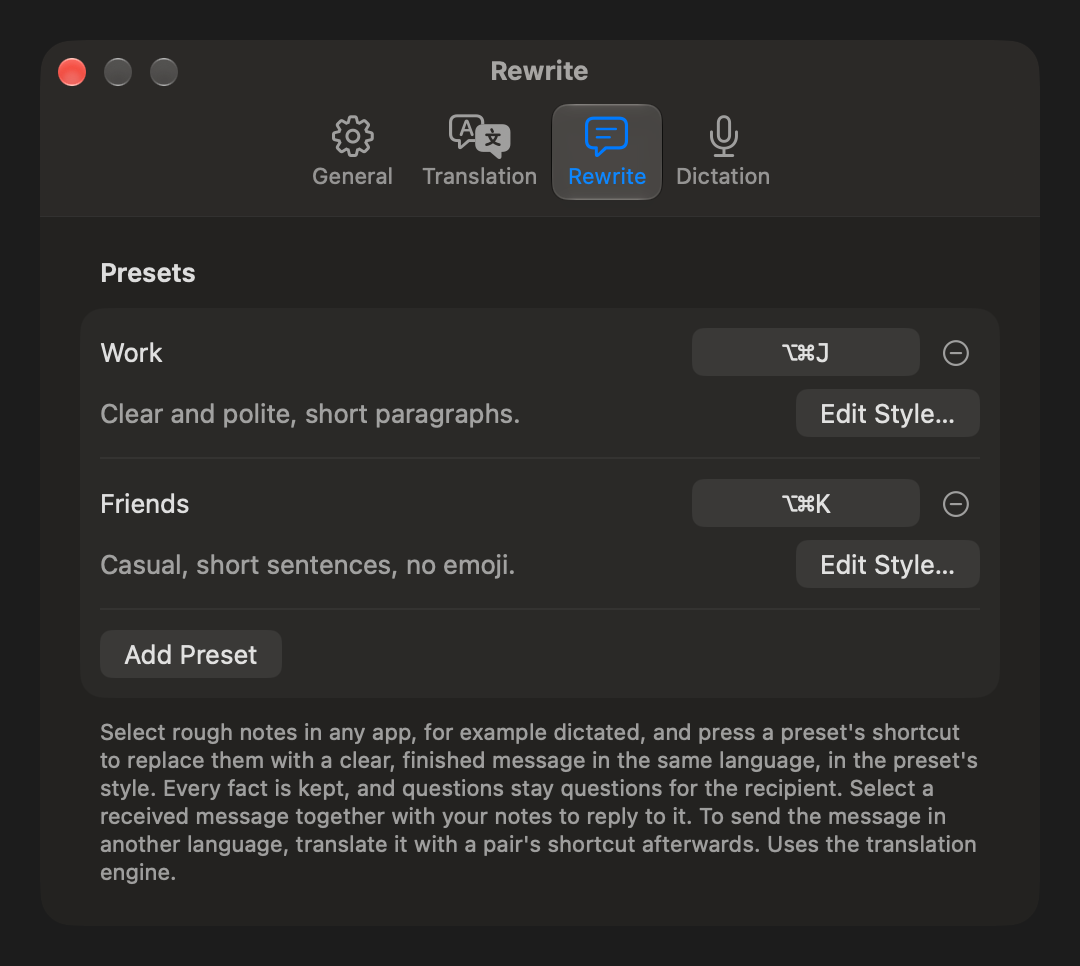
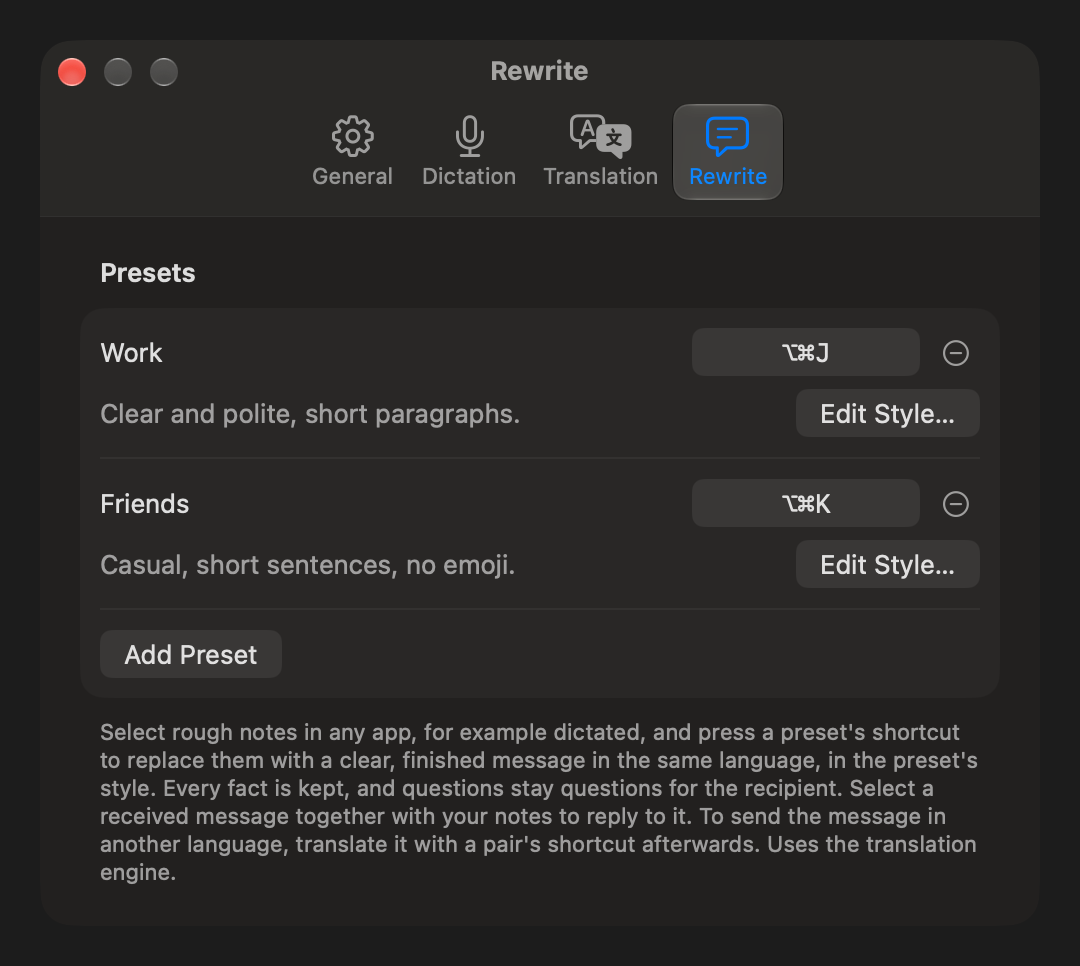
Prepare 3.7.12 screenshots, stabilize captures and update website copy

Changed region(s): [[0.3972, 0.0932, 0.7333, 0.2174]]

diff --git a/docs/build-and-release.md b/docs/build-and-release.md
@@ -77,8 +77,11 @@ checkout's caches intact.
   `CAPTURE_APPEARANCE=current` to leave the system theme and pointer untouched;
   the capture fails if the theme changes while a frame is being recorded.
   `CAPTURE_ACTIVITY_ONLY=1 CAPTURE_OUT=<dir> ./capture-screenshots.sh` captures
-  all four activity states and presses each Cancel button to verify dismissal.
+  all four activity states, waits for each panel frame to settle, and presses
+  each Cancel button to verify dismissal.
   Add `CAPTURE_LANGUAGE=de` to check the German labels.
+  Release 3.7.12 captures use `CAPTURE_LOCAL_MODEL=gemma-4-12b` to show the
+  newly available model in Translation and Manage Models.
   `CAPTURE_RESULTS_ONLY=1 CAPTURE_OUT=<dir> ./capture-screenshots.sh` checks
   the recovery submenu's empty, partial and full states.
 - **CRITICAL:** `swift build` alone updates only the SwiftPM build directory; it
@@ -191,7 +194,12 @@ gh release download vX.Y.Z -p "*.zip" -D /tmp/asset-check && \
 ## Website
 
 The product page is <https://wiltodelta.com/projects/translate-like-me/> on
-Victor's personal website. Since 2026-10-23 `translatelikeme.com` only
+Victor's personal website. `website-content.json` supplies its introduction and
+feature sections from the published release tag, alongside the General settings
+screenshots. Refresh the website with `pnpm run build:products` in
+`wiltodelta-app` after publication; a live deployment needs separate approval.
+
+Since 2026-10-23 `translatelikeme.com` only
 redirects there: a Cloudflare Redirect Rule ("Redirect to wiltodelta.com
 product page") answers every request on the root and `www` with a 301, over
 a proxied placeholder A record `192.0.2.1` and a proxied `www` CNAME to the
